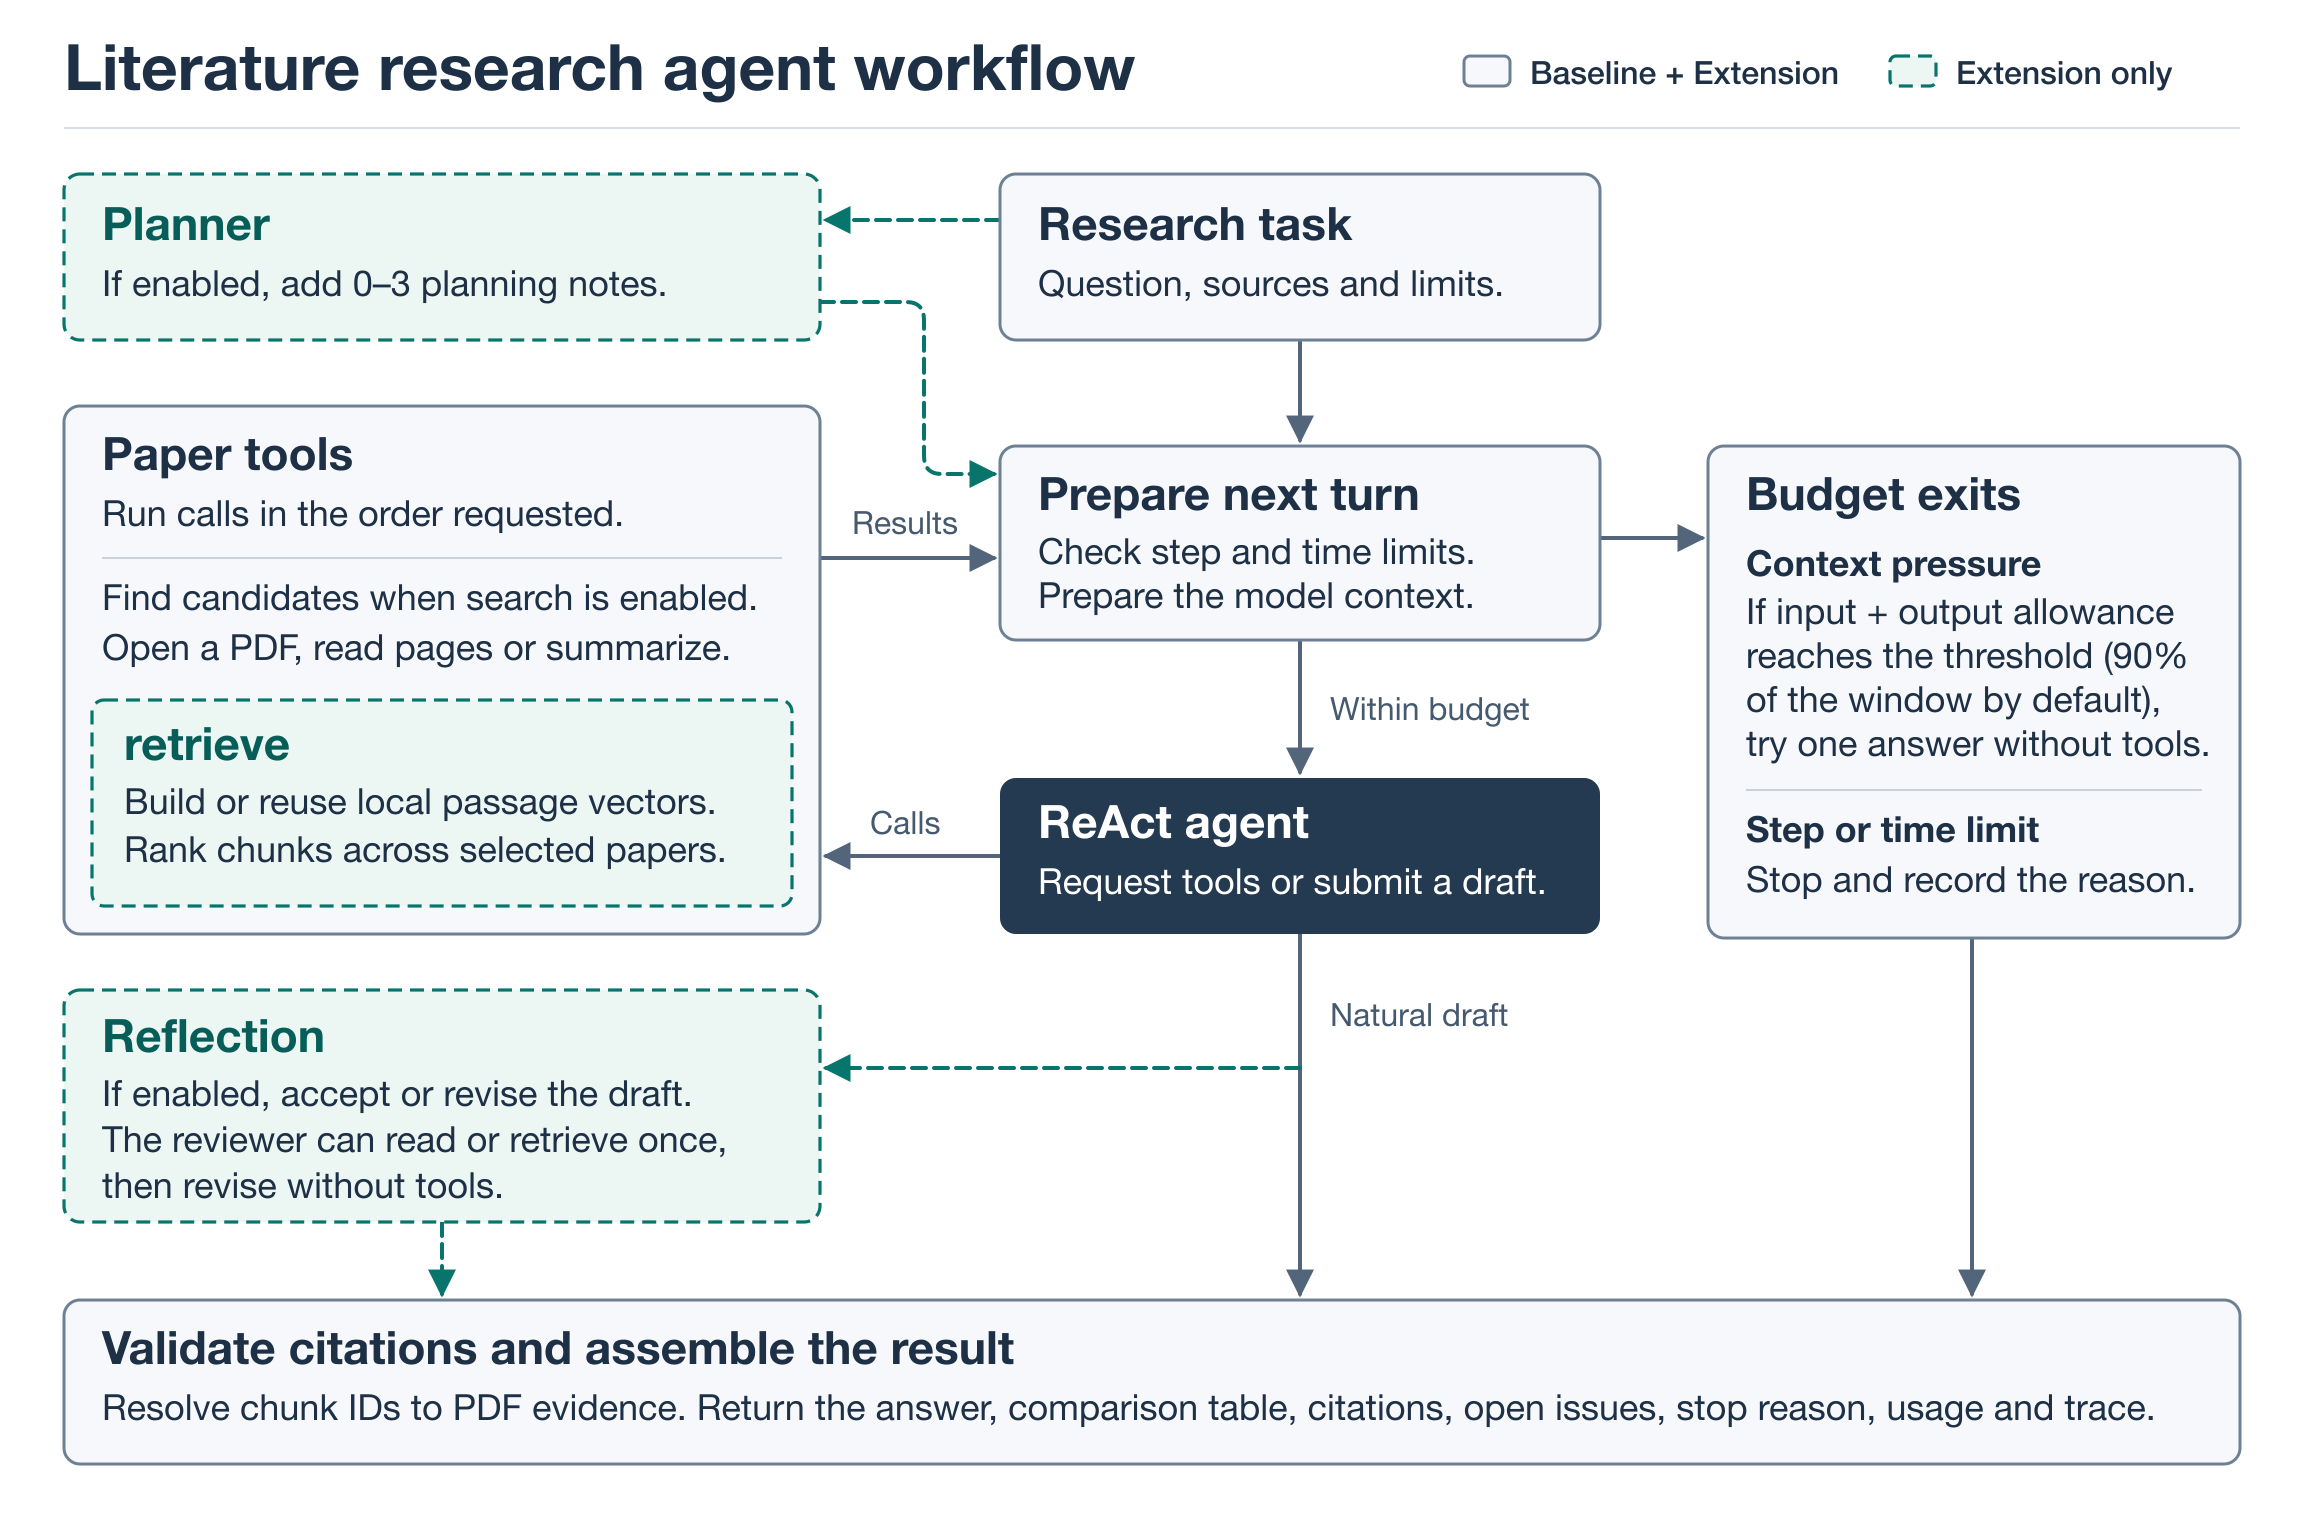
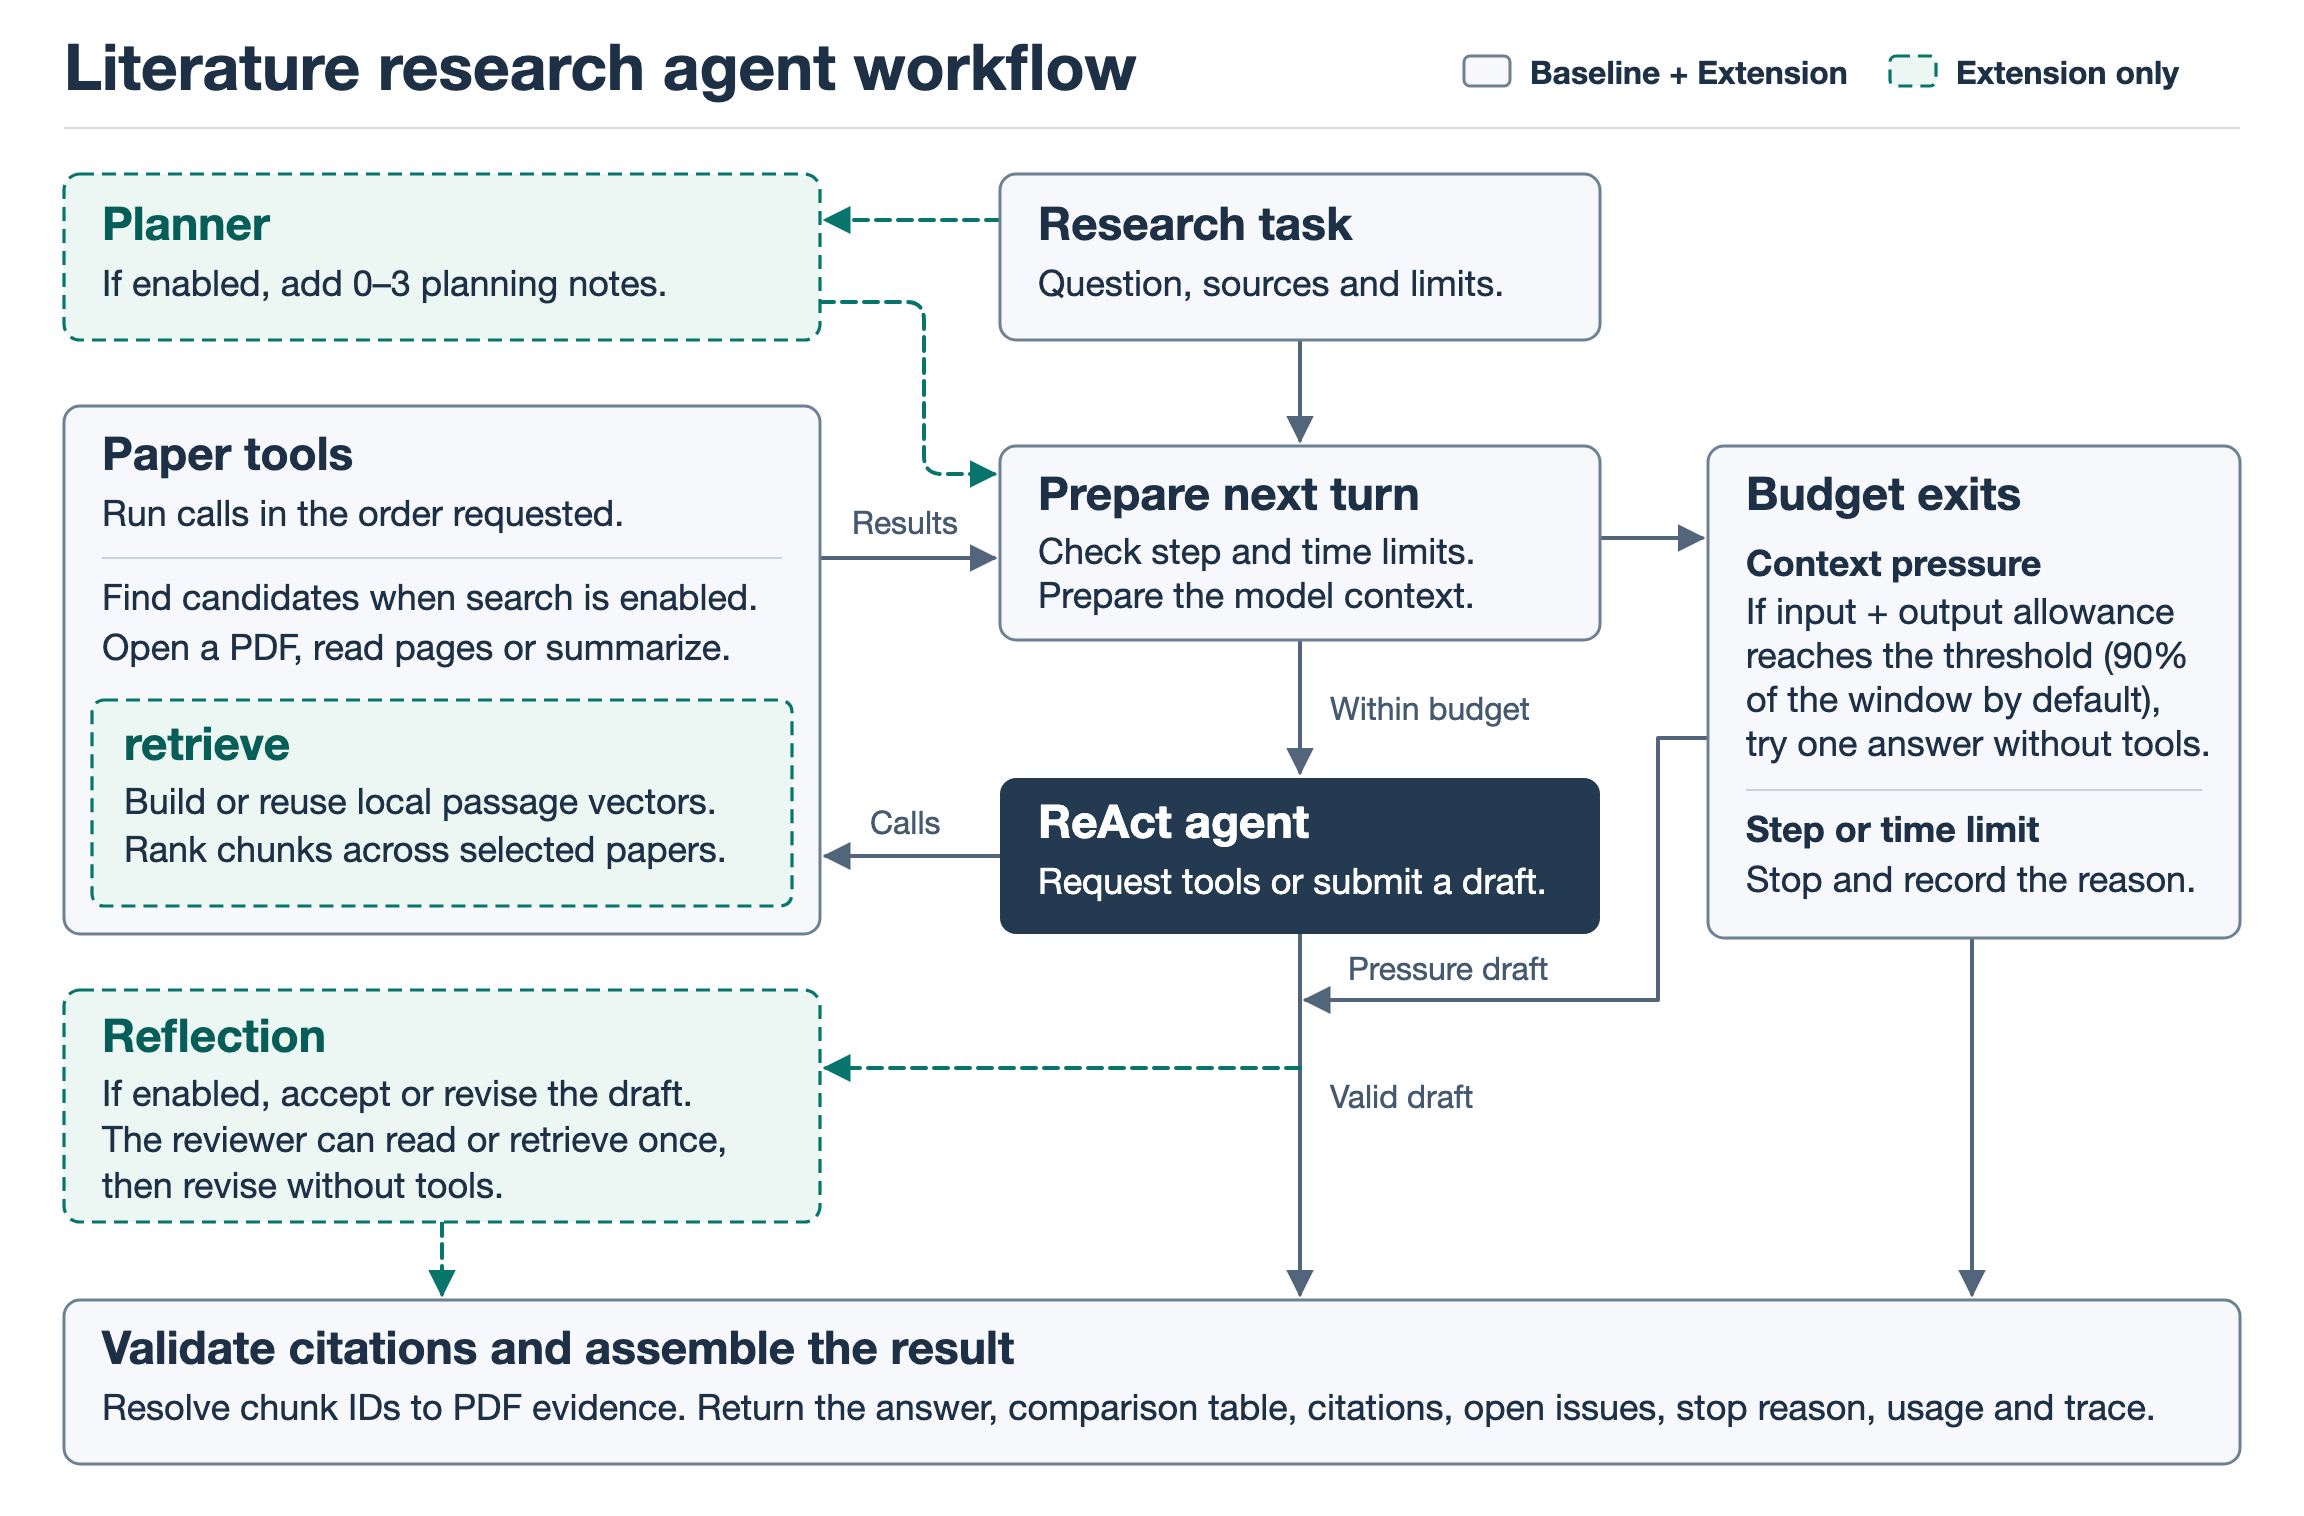
Review valid drafts after context-pressure finalization

diff --git a/agent/tests/test_reflection.py b/agent/tests/test_reflection.py
@@ -207,11 +207,24 @@ def test_reflection_model_failure_keeps_the_draft_and_marks_usage_unknown():
     assert [citation.chunk_id for citation in result.citations] == [CHUNK]
 
 
-def test_pressure_finalization_skips_reflection():
+def test_pressure_finalization_reviews_valid_draft_before_citation_validation():
     initial = read()
     initial.usage_metadata.update(input_tokens=9000, total_tokens=9020)
-    result, _ = execute([initial, final()], context_window=10000, reflection=True)
+    result, model = execute([initial, final(MISSING), final()], context_window=10000, reflection=True)
     assert result.stop_reason == "completed"
+    assert purposes(result) == ["agent", "finalize", "reflection"]
+    assert json.loads(model.inputs[-1][-1].content)["missing_citation_ids"] == [MISSING]
+    assert [c.chunk_id for c in result.citations] == [CHUNK]
+    assert result.trace[-1]["outcome"] == "revised"
+    assert result.usage.agent_steps == 2
+    assert result.usage.model_calls == 3
+
+
+def test_pressure_finalization_without_valid_draft_skips_reflection():
+    initial = read()
+    initial.usage_metadata.update(input_tokens=9000, total_tokens=9020)
+    result, _ = execute([initial, message('{"answer":[]}')], context_window=10000, reflection=True)
+    assert result.stop_reason == "invalid_output"
     assert purposes(result) == ["agent", "finalize"]
     assert not any(entry["kind"] == "reflection" for entry in result.trace)
     assert result.usage.agent_steps == result.usage.model_calls == 2

diff --git a/agent/baseline.py b/agent/baseline.py
@@ -558,7 +558,6 @@ class GraphState(TypedDict):
     messages: list[BaseMessage]
     stop_reason: str
     final: dict[str, Any]
-    natural_draft: NotRequired[bool]
     plan: NotRequired[str]
 
 
@@ -652,7 +651,6 @@ def agent_node(state: GraphState, *, model, context: PaperContext) -> dict:
     return {
         "messages": updated,
         "final": final,
-        "natural_draft": not finalizing,
         "stop_reason": "completed",
     }
 
@@ -710,7 +708,7 @@ def tools_node(state: GraphState, *, tools: dict[str, BaseTool], context: PaperC
     return {"messages": state["messages"] + observations, "stop_reason": reason}
 
 
-# The ReAct loop can start with a plan and finish with a review of a natural draft.
+# The ReAct loop can start with a plan and finish with a review of the draft.
 def build_graph(
     model,
     tools: list[BaseTool],
@@ -737,7 +735,7 @@ def build_graph(
         graph.add_edge("reflection", END)
 
     def after_agent(state: GraphState) -> str:
-        if reflection is not None and state.get("natural_draft"):
+        if reflection is not None and state["final"]:
             return "reflection"
         return END if state["stop_reason"] else "tools"
 

diff --git a/agent/extension.py b/agent/extension.py
@@ -462,7 +462,7 @@ def main() -> int:
         "--planner", action="store_true", help="Request a short optional plan before research"
     )
     parser.add_argument(
-        "--reflection", action="store_true", help="Check a natural draft against its cited passages"
+        "--reflection", action="store_true", help="Check the draft against its cited passages"
     )
     args = parser.parse_args()
     task = Task.model_validate_json(args.task.read_text())

diff --git a/tacc/TACC.md b/tacc/TACC.md
@@ -87,7 +87,7 @@
 | --- | --- | --- |
 | 已有真实作业 | Baseline 库内搜索、预选、分页阅读、分块摘要 | 作业 30395、30387 和 30628，见下方记录。 |
 | 已接入，待真实作业 | Baseline，开启搜索，参考论文留空，搜索一篇库里还没有的论文 | 「运行记录」有 `search_papers`，再看打开原文和阅读工具。在正文点击引用，导入同一 arXiv 版本，打开引用页。 |
-| 已接入，待真实作业 | Extension，勾选两篇 PDF，开启 Planner、Reflection 和 compact，要求分别检索单篇及两篇并比较 | 核对 `planner`、`retrieve`、`embedding`、`retrieval_index` 和自然交稿后的 `reflection`；两篇分别有可点击的证据。进入上下文压力收尾时可跳过 Reflection。 |
+| 已接入，待真实作业 | Extension，勾选两篇 PDF，开启 Planner、Reflection 和 compact，要求分别检索单篇及两篇并比较 | 核对 `planner`、`retrieve`、`embedding`、`retrieval_index` 和交稿后的 `reflection`；两篇分别有可点击的证据。上下文压力收尾产生有效草稿时也应触发 Reflection。 |
 | 两种模式的 Neon 写入与读回已实测，待真实作业 | 开启 `AGENT_PERSIST=true` 后运行两种模式 | 「运行记录」显示 Agent 数据库保存状态。网页仍从本机后端取结果，Worker 另外把解析文档和完整 TaskResult 写入配置的 Agent 数据库。 |
 
 **Baseline 可复制问题**（先确认自己的库里还没有 LoRA）
